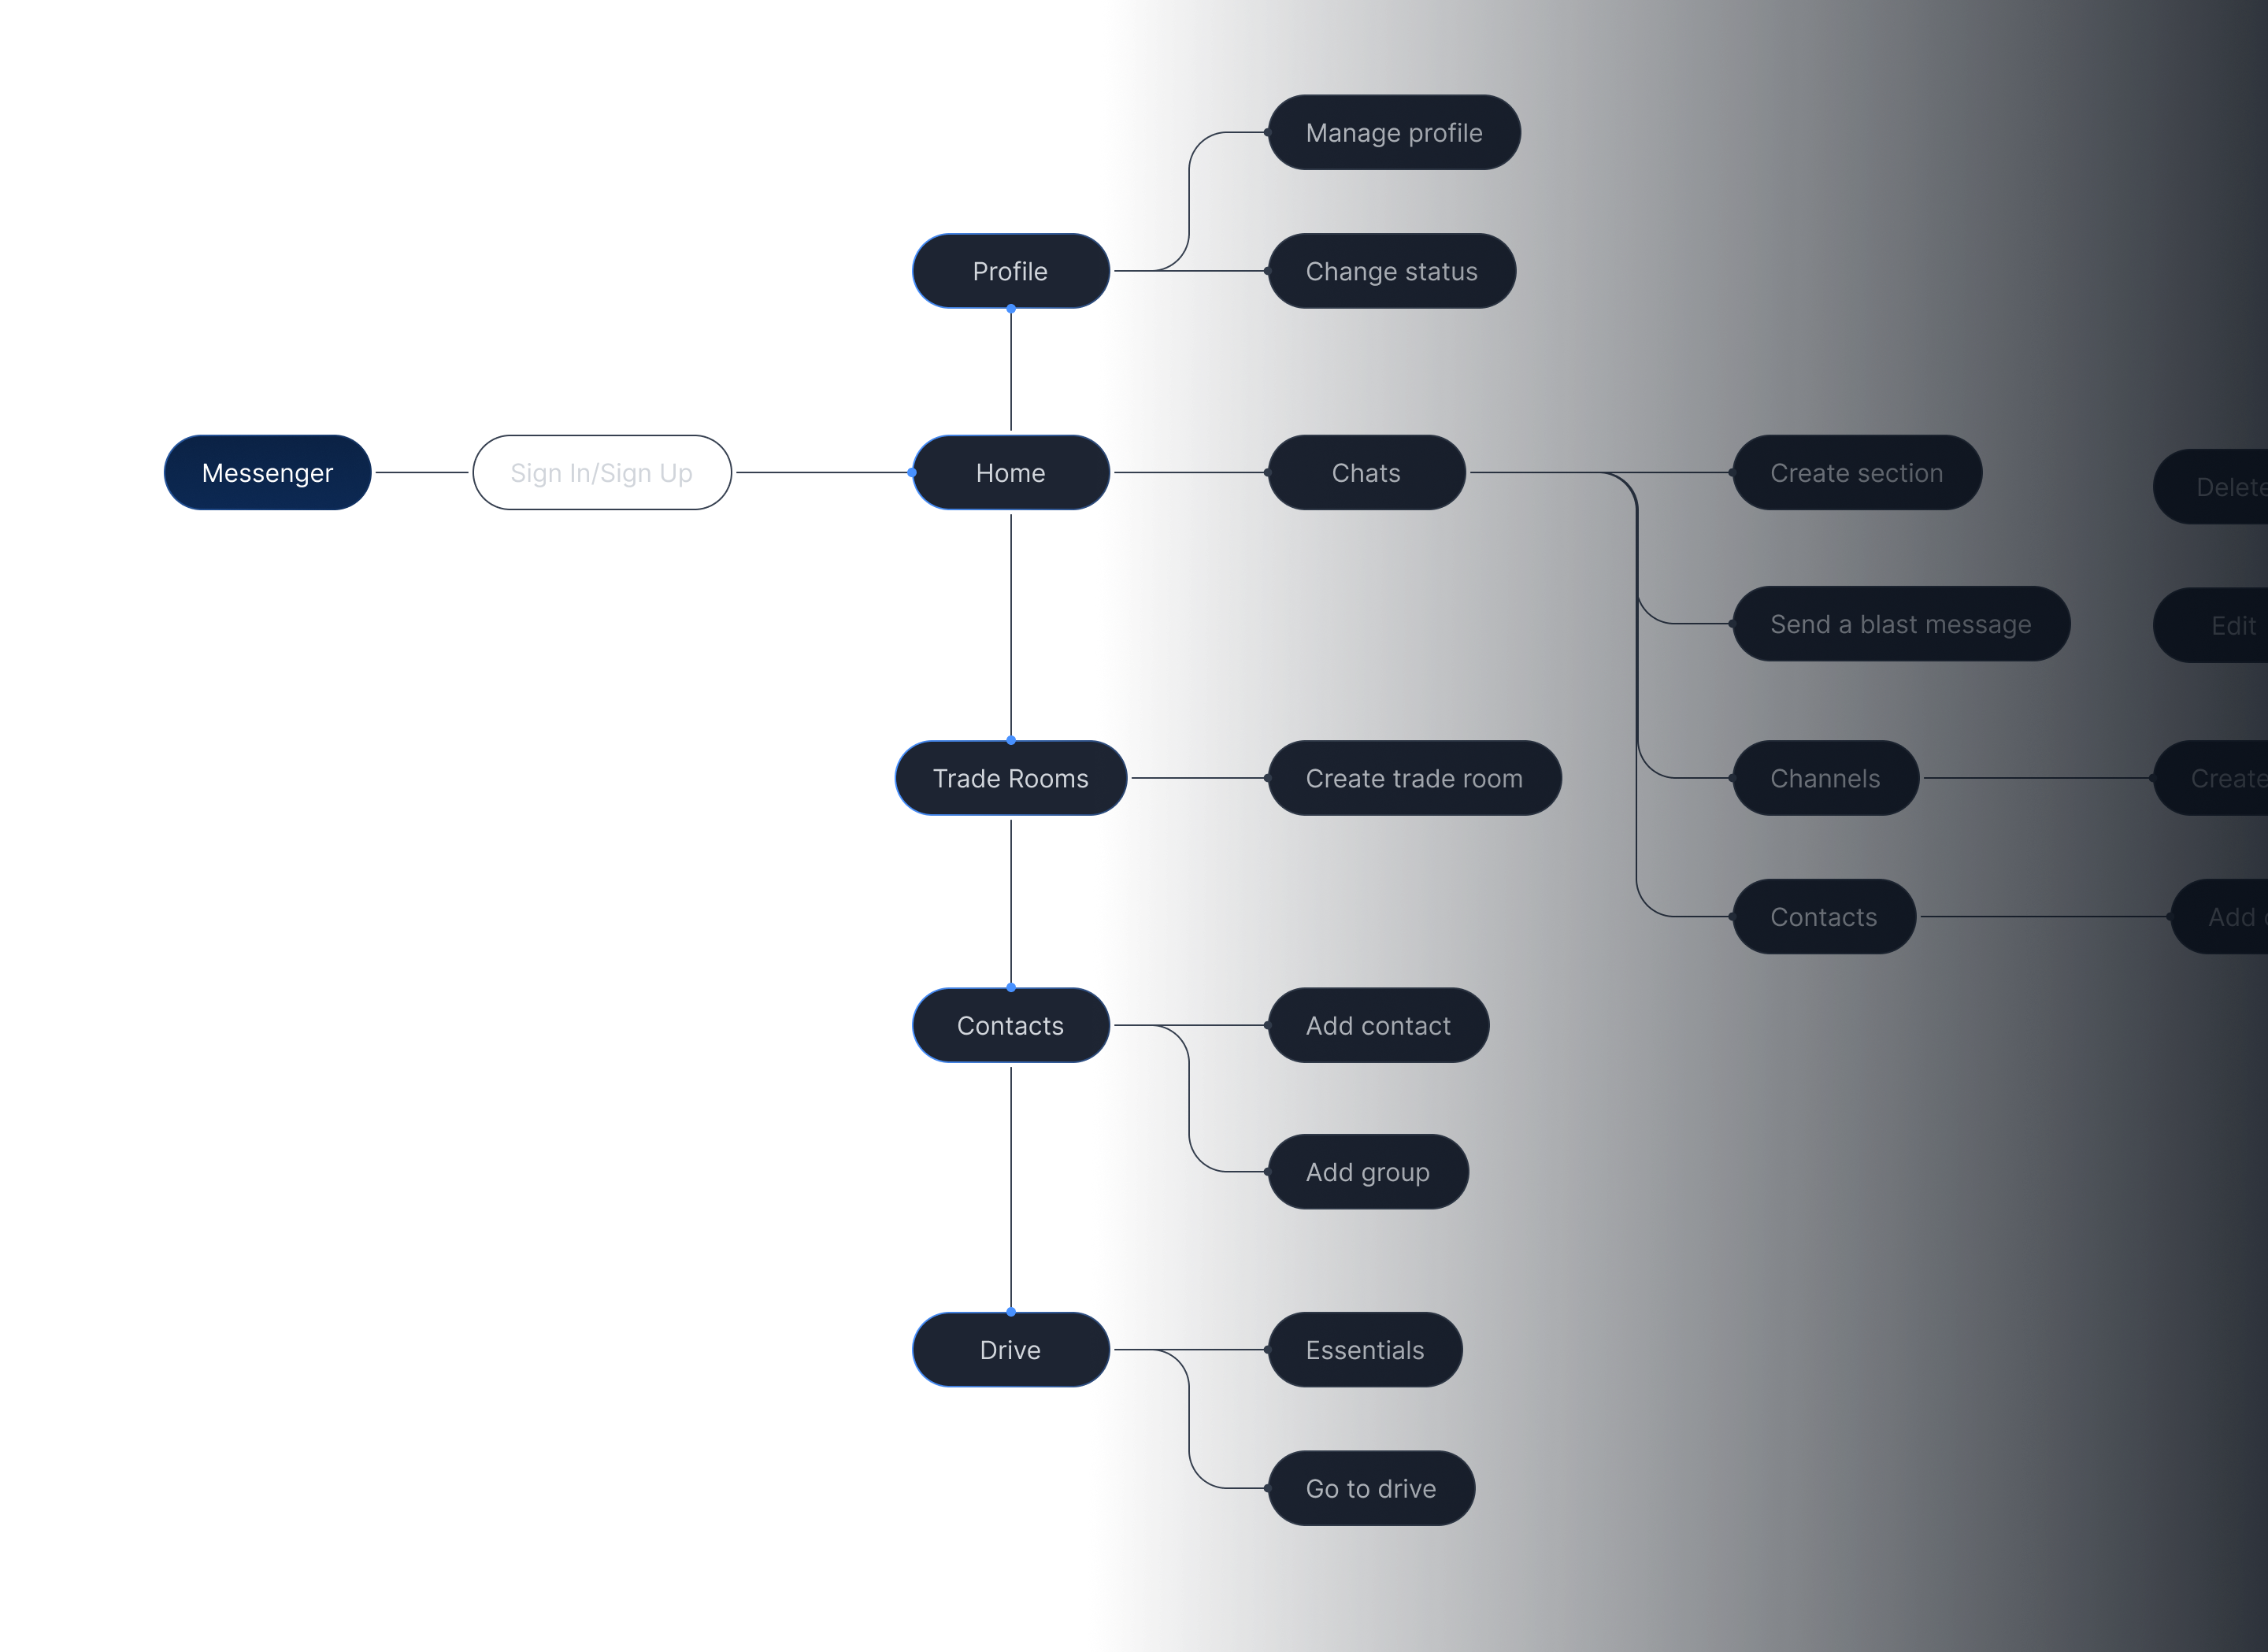
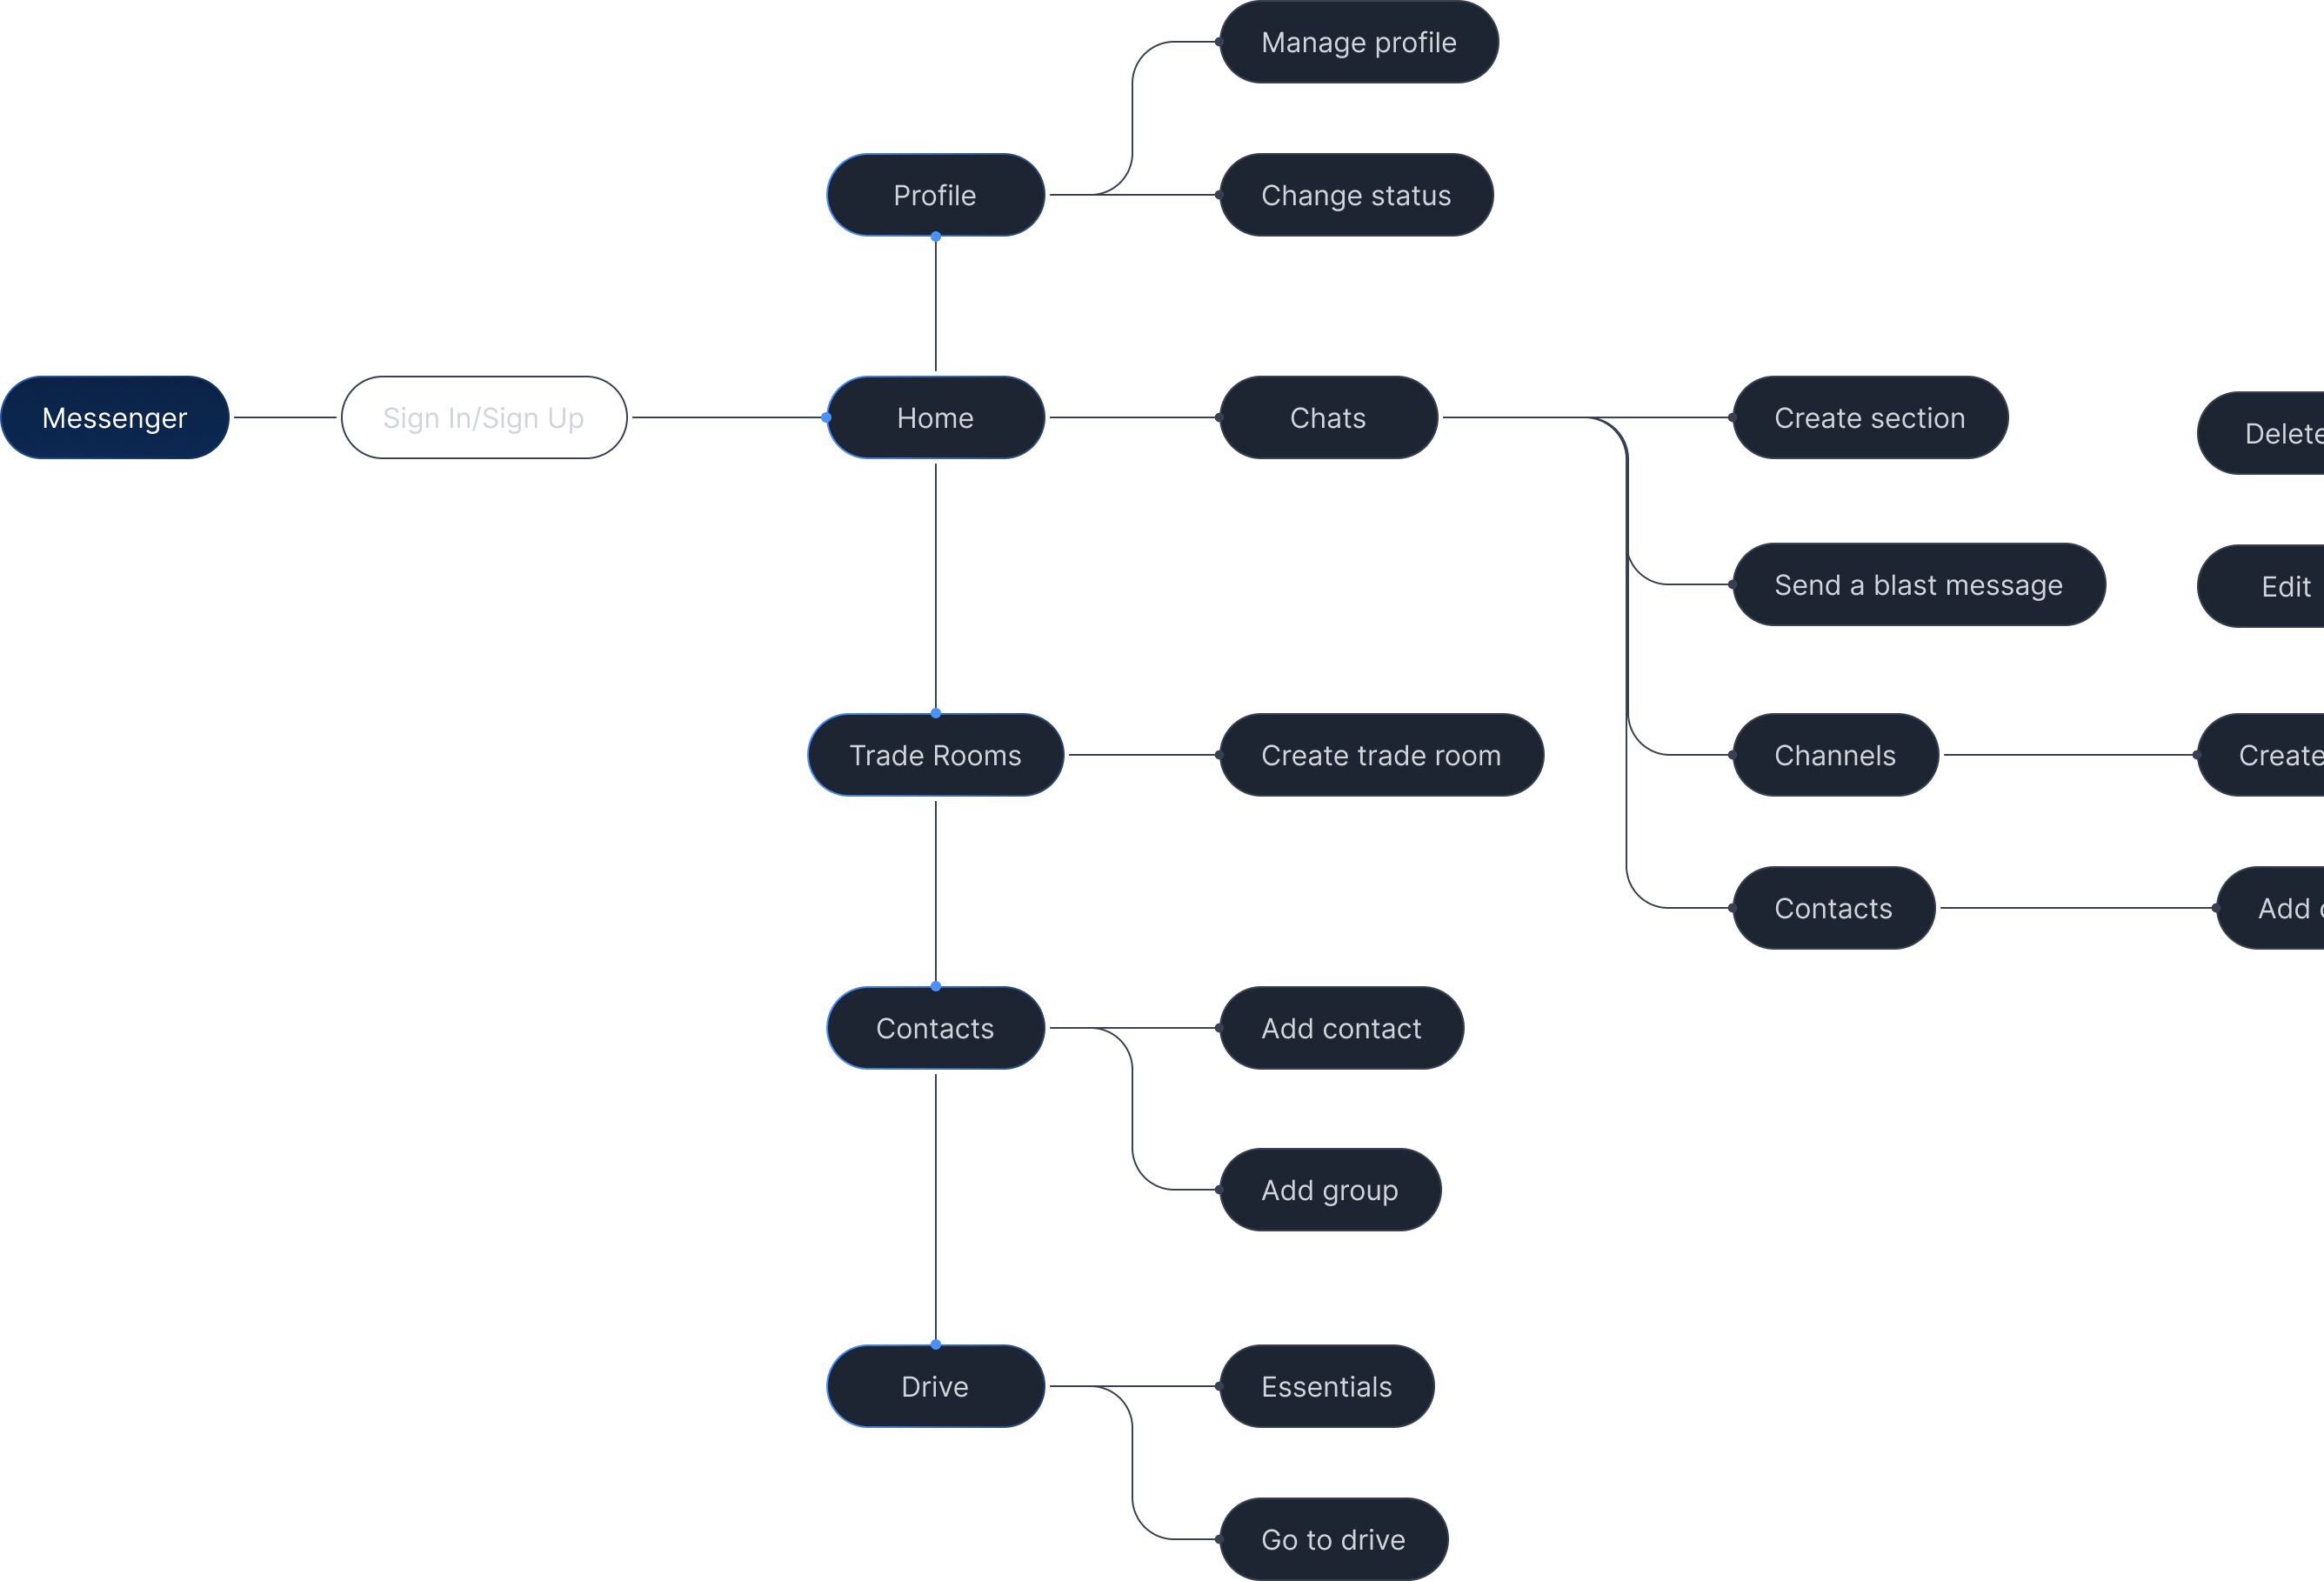
IA diagram: refreshed export, left-aligned with fixed height

diff --git a/app/work/messenger/MessengerCaseStudy.tsx b/app/work/messenger/MessengerCaseStudy.tsx
@@ -519,7 +519,7 @@ export default function MessengerCaseStudy() {
               <img
                 src="/messenger-ia.png"
                 alt="Messenger information architecture — site map of communication, document, and transaction modules"
-                className="h-[560px] w-auto max-w-none block"
+                className="h-[600px] w-auto max-w-none block"
               />
               <div className="pointer-events-none absolute inset-y-0 right-0 w-48 bg-gradient-to-l from-bg via-bg/80 to-transparent z-10" />
             </motion.div>